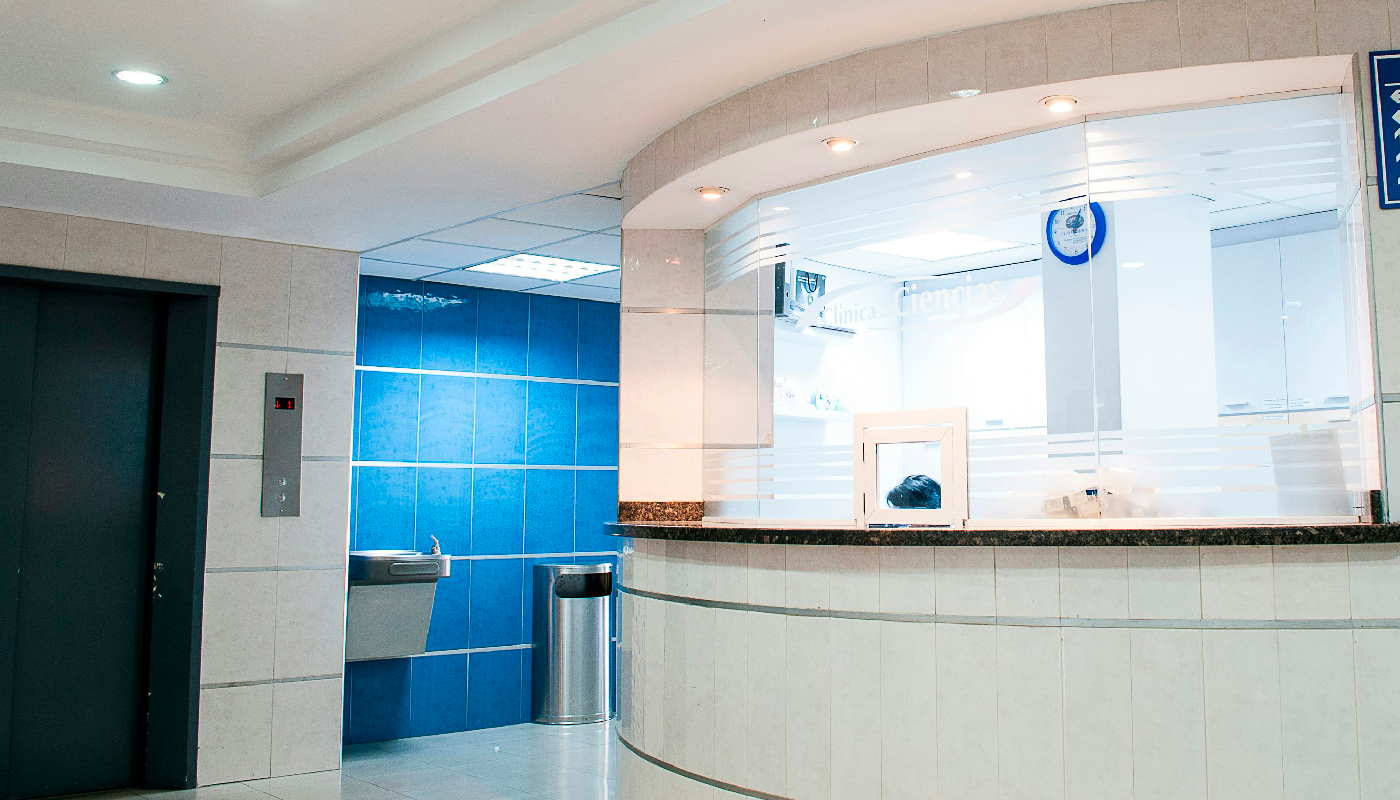
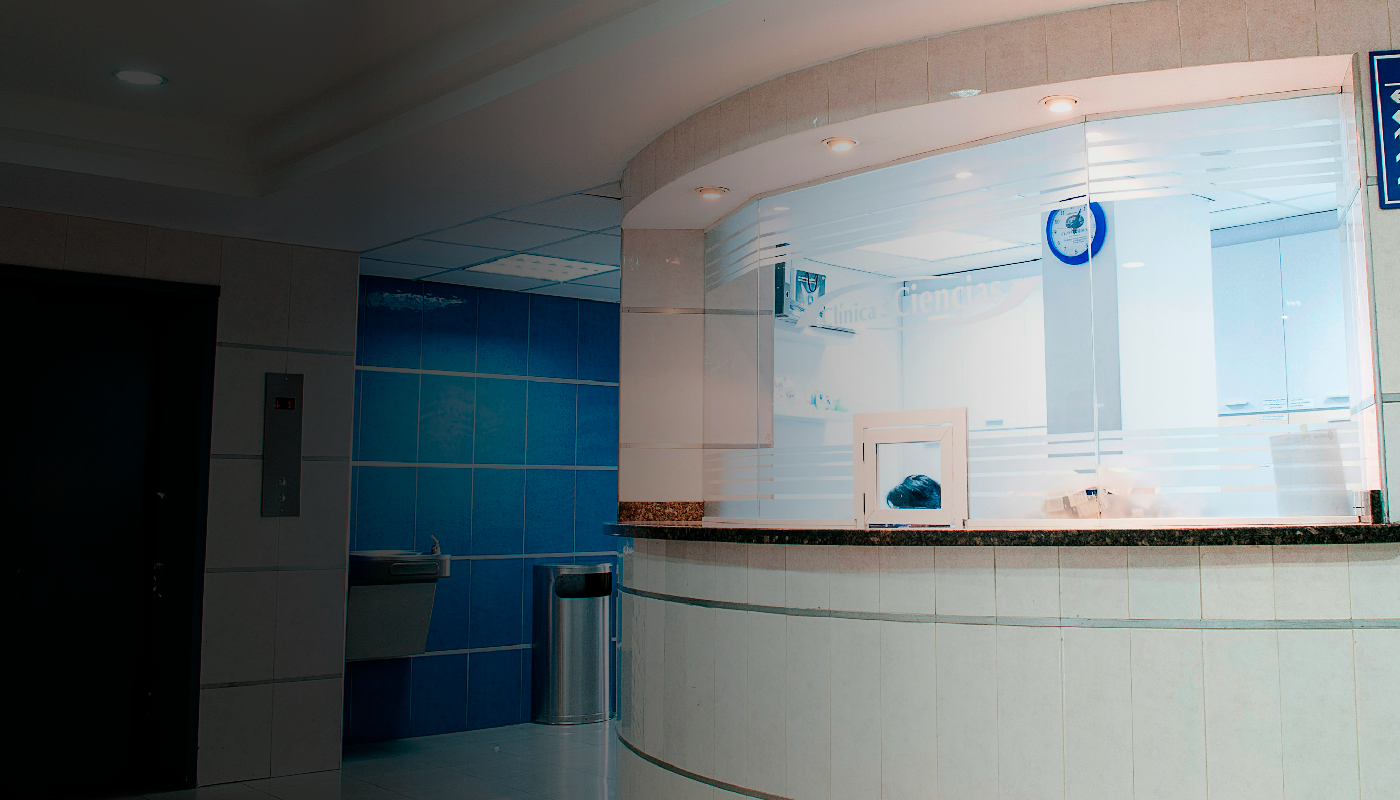
Versão 2.0
Alteração na visibilidade e adicionados novas descrições

diff --git a/index.html b/index.html
@@ -31,7 +31,7 @@
                     <div class="linguagem">python / SVM</div>
                     <div class="nomeprojeto">IAMon</div>
                     <div class="tipo">Estudo com Inteligência Artificial</div>
-                    <div class="descricao">Lorem ipsum dolor sit amet consectetur adipisicing elit. Numquam praesentium odit delectus ex, quia inventore optio ad porro adipisci animi obcaecati facere voluptatem ab dicta ullam perspiciatis quas nulla laborum?</div>
+                    <div class="descricao">O Projeto visa demonstrar como o modelo de Inteligência Artificial SVM se comporta na classificação de indíviduos criados manualmente. Para isso, foi usado um dataset da Franquia Pokémon, contendo 898 Indivíduos. O Objetivo do Algorítmo é classificar quais dentre esses Pokémon são Comuns, Lendários, Sub-lendários e Míticos.</div>
                     <div class="botoes">
                         <button>VER MAIS</button>
                         <button>GITHUB</button>
@@ -45,16 +45,16 @@
                 <img src="img/wolfeinstein-bg-resize.png" alt="fundo w3e">
                 <div class="conteudo">
                     <div class="linguagem">python / pygame</div>
-                    <div class="nomeprojeto">Wolfeinstein3D Render Engine Recreation</div>
-                    <div class="tipo">Estudo de Biblioteca python / trigonometria</div>
-                    <div class="descricao">Lorem ipsum dolor sit amet consectetur adipisicing elit. Numquam praesentium odit delectus ex, quia inventore optio ad porro adipisci animi obcaecati facere voluptatem ab dicta ullam perspiciatis quas nulla laborum?</div>
+                    <div class="nomeprojeto">Wolfeinstein3D Render</div>
+                    <div class="tipo">Estudo de Biblioteca python / Trigonometria</div>
+                    <div class="descricao">Este projeto é uma recriação do estilo clássico de renderização 3D usado em Wolfenstein 3D, totalmente feito com Python e Pygame. Ele utiliza Raycasting para simular uma perspectiva 3D a partir de um mapa 2D, com renderização de paredes, céu, chão e objetos (sprites), oferecendo uma base simples para entender como jogos 3D antigos funcionavam internamente.</div>
                     <div class="botoes">
                         <button>VER MAIS</button>
                         <button>GITHUB</button>
                     </div>
                 </div>
             </div>
-
+            
             <!-- SCX -->
 
             <div class="item">
@@ -63,7 +63,7 @@
                     <div class="linguagem">react / html / css / js</div>
                     <div class="nomeprojeto">SCX - Sistema de Controle de Exames</div>
                     <div class="tipo">Projeto de Conclusão de Curso / Estudo de React e Front-End</div>
-                    <div class="descricao">Lorem ipsum dolor sit amet consectetur adipisicing elit. Numquam praesentium odit delectus ex, quia inventore optio ad porro adipisci animi obcaecati facere voluptatem ab dicta ullam perspiciatis quas nulla laborum?</div>
+                    <div class="descricao">O SCX visa atender a crescente necessidade de um sistema integrado entre laboratório, médicos e também incluindo pacientes por meio da fácil criação, gestão, vizualização e integração de exames.</div>
                     <div class="botoes">
                         <button>VER MAIS</button>
                         <button>GITHUB</button>
@@ -82,10 +82,10 @@
                 <img src="img/wolfeinstein-bg-resize.png" alt="icone pokemon">
                 <div class="conteudo">
                     <div class="titulo">
-                        Nome do Slider
+                        Wolfeinstein3D Render Engine
                     </div>
                     <div class="descricao">
-                        Descrição
+                        Python / Pygame
                     </div>
                 </div>
             </div>
@@ -96,10 +96,10 @@
                 <img src="img/hospital-bg-resize.png" alt="icone pokemon">
                 <div class="conteudo">
                     <div class="titulo">
-                        Nome do Slider
+                        SCX
                     </div>
                     <div class="descricao">
-                        Descrição
+                        React / Front-End
                     </div>
                 </div>
             </div>
@@ -109,10 +109,10 @@
                 <img src="img/pokemon-bg-resize.png" alt="icone pokemon">
                 <div class="conteudo">
                     <div class="titulo">
-                        Nome do Slider
+                        IAMon
                     </div>
                     <div class="descricao">
-                        Descrição
+                        Python / Machine Learning / SVM
                     </div>
                 </div>
             </div>

diff --git a/style.css b/style.css
@@ -51,6 +51,7 @@ header a{
     width: 100%;
     height: 100%;
     object-fit: cover;
+    filter: brightness(60%);
 }
 
 .carrossel .lista .item .conteudo{
